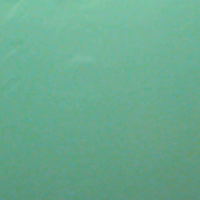
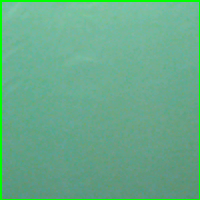
Roi box in frame

diff --git a/program.py b/program.py
@@ -35,6 +35,9 @@ while True:
     ret, frame = cam.read()
 
     roi = frame[rect_roi.y1 : rect_roi.y2, rect_roi.x1 : rect_roi.x2]
+    frame = cv2.rectangle(frame, (rect_roi.x1, rect_roi.y1), (rect_roi.x2, rect_roi.y2), (0, 255, 0), 2)
+
+    cv2.imshow('Live', frame)
 
     # cv2.imshow('Live', roi)
 
@@ -42,18 +45,15 @@ while True:
         bg = cv2.imread(bg_path)
 
         diff = cv2.absdiff(roi, bg)
-        # cv2.imshow('Difference', diff)
 
         diff_gray = cv2.cvtColor(diff, cv2.COLOR_BGR2GRAY)
 
         _, thr = cv2.threshold(diff_gray, 20, 255, cv2.THRESH_BINARY)
-        cv2.imshow('Difference Thresholded', thr)
+        # cv2.imshow('Difference Thresholded', thr)
 
-        # x = np.array(thr)
+        x = reshape(convert_to_tensor(thr), [1, 200, 200, 1])
+        y = np.argmax(model.predict(x))
 
-        x = convert_to_tensor(thr)
-        x = reshape(x, [1, 200, 200, 1])
-        y = model.predict(x)
         print(y)
 
     c = cv2.waitKey(1)
